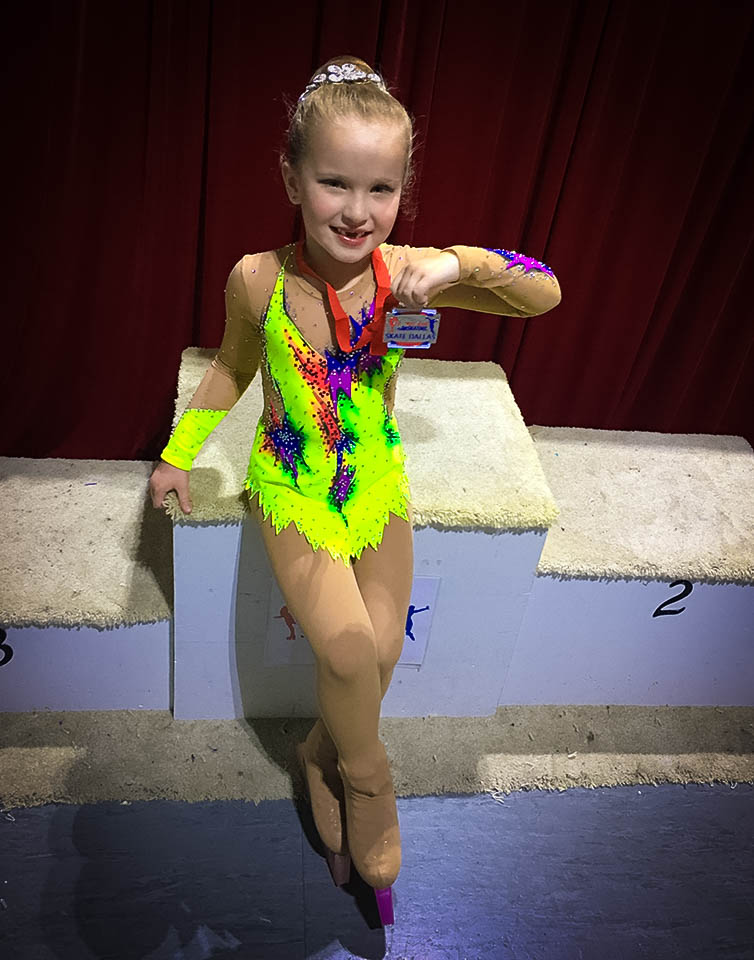
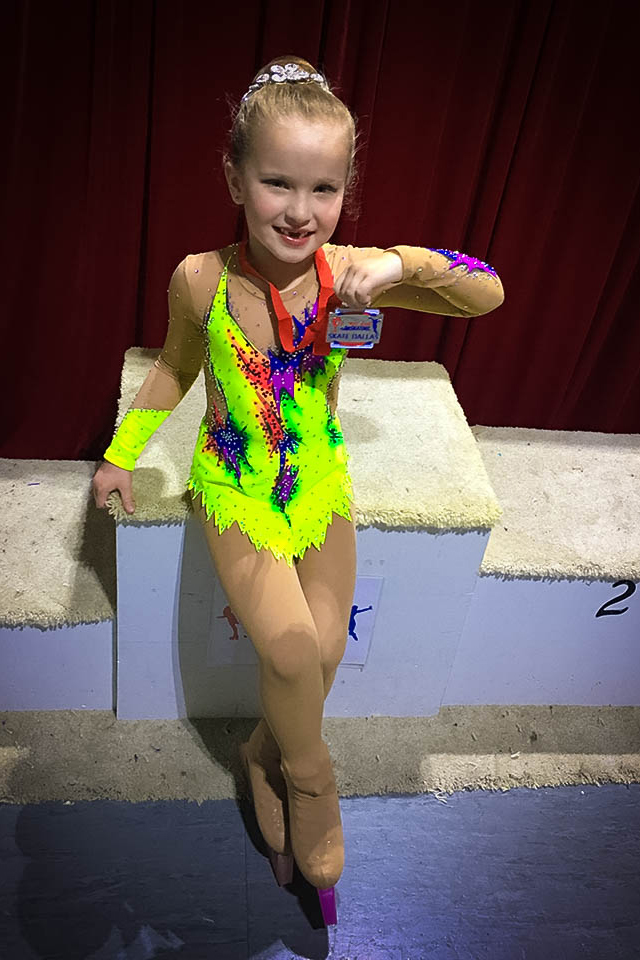
Testimonial 5 pics

diff --git a/index.html b/index.html
@@ -430,10 +430,10 @@
                     </div>
                     <div class="row">
                         <div class="col-md-6">
-                            <img class="img-responsive" src="images/testimonials/katie-wm.jpg">
+                            <img class="img-responsive" src="images/testimonials/julia.jpg">
                         </div>
                         <div class="col-md-6">
-                            <img class="img-responsive" src="images/testimonials/katie-wm-2.jpg">
+                            <img class="img-responsive" src="images/testimonials/julia-2.jpg">
                         </div>
                     </div>
                     <!-- /Testimonial block -->
